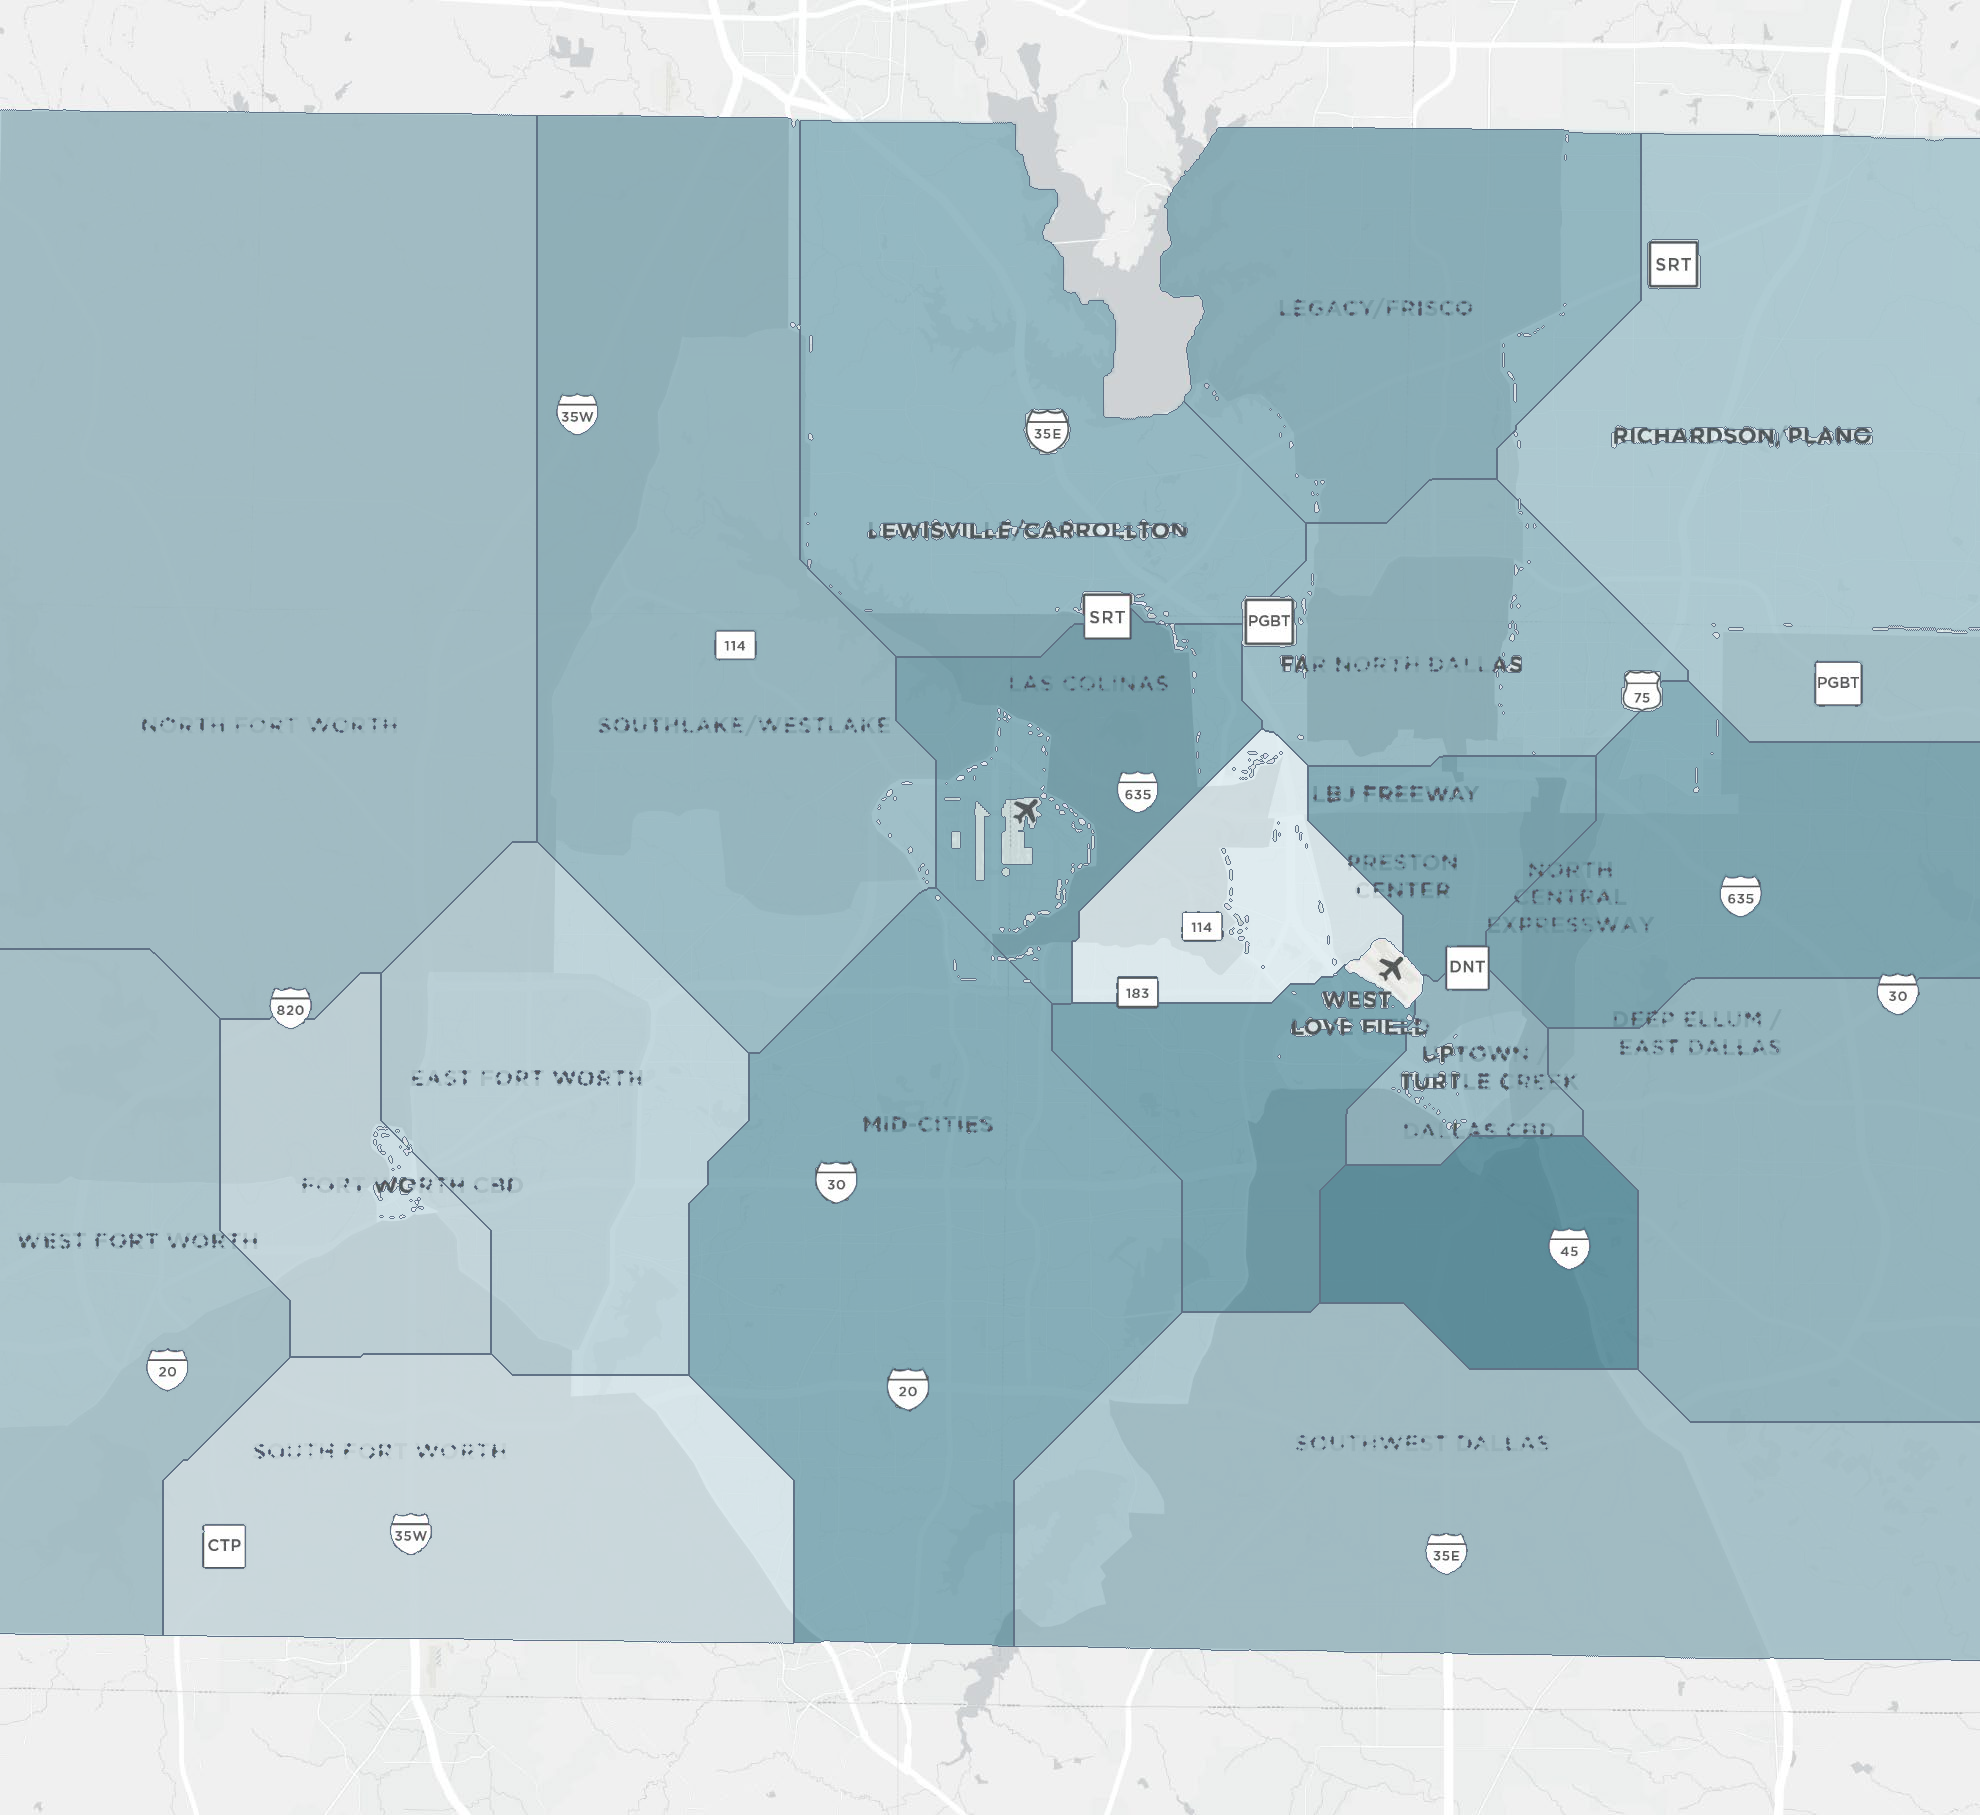
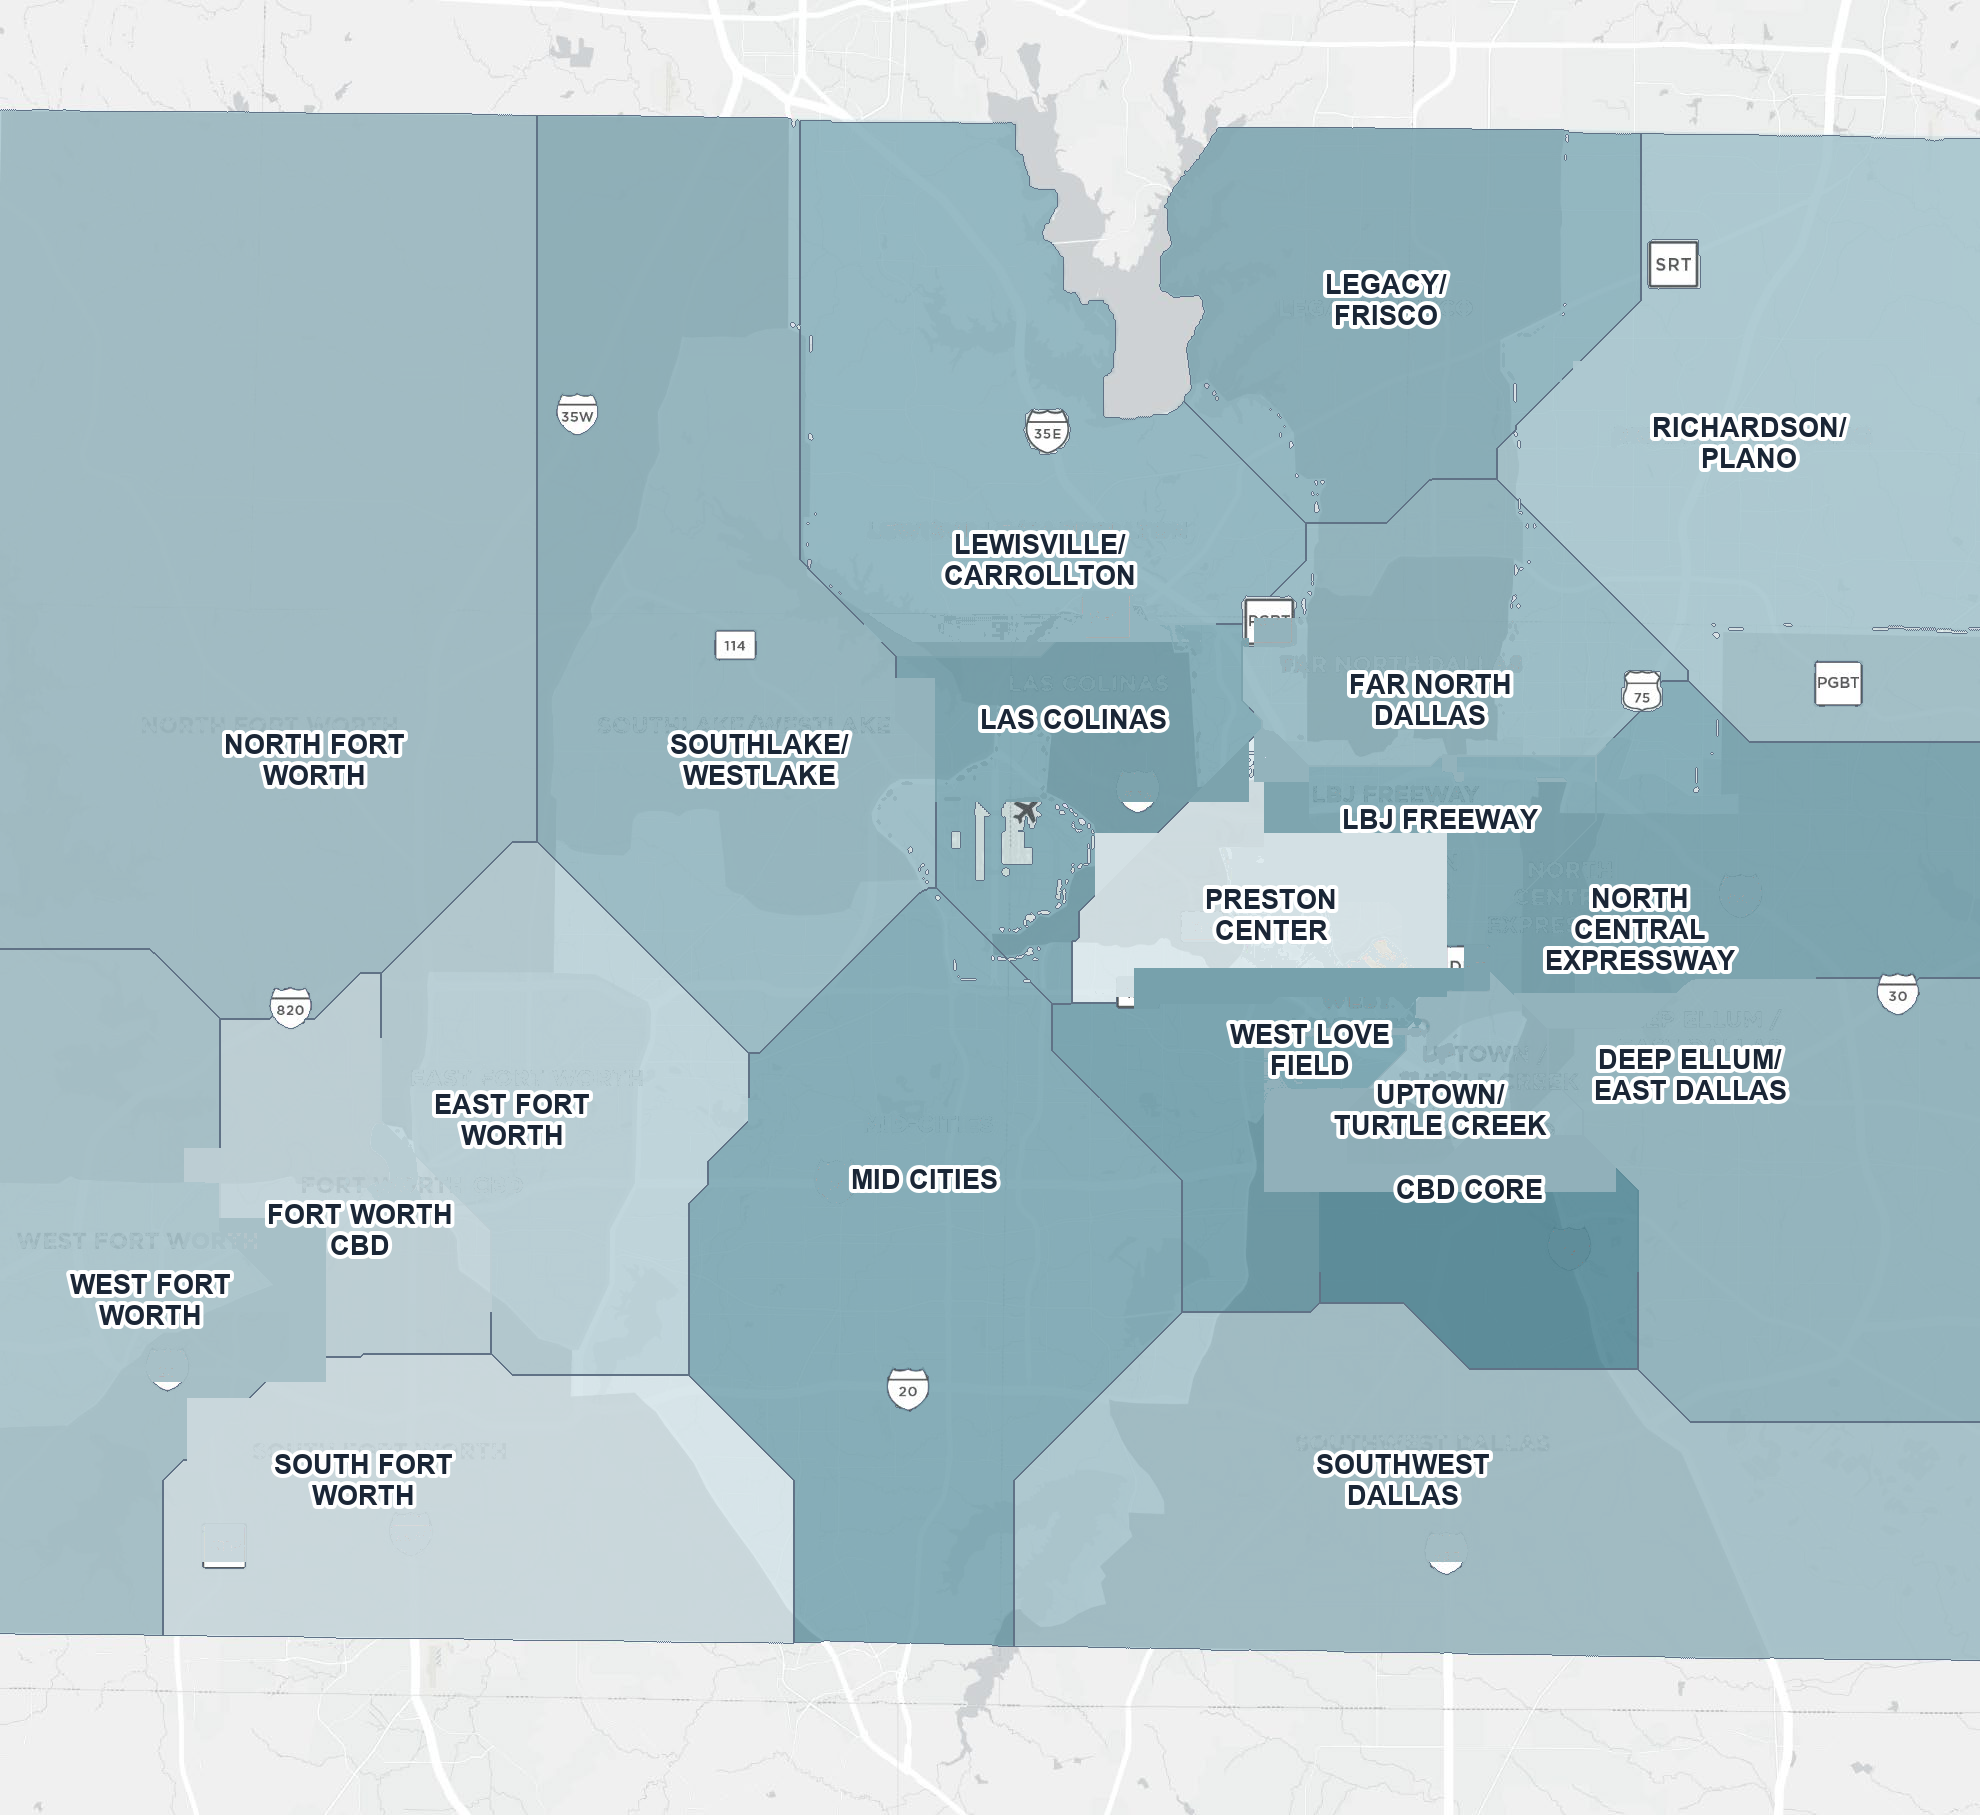
Submarket map: re-render labels crisply + drop the cursor-follow chip
- Labels: the baked-in JPEG labels blurred against the recolored regions. Now erase
  each one (relative to its region's own shade, so it works on pale + deep teal) and
  re-draw the name sharply with a clean white outline. Crisp on every region.
- Interaction: removed the chip that popped up near the cursor; hover still previews in
  the side panel, click a region to dive into its full figures.

diff --git a/frontend/report.html b/frontend/report.html
@@ -364,11 +364,6 @@
     border: 1px solid var(--line); border-radius: 12px; overflow: hidden; background: #fff;
     box-shadow: 0 2px 10px rgba(20,30,50,.05); cursor: pointer; }
   .sm-img { display: block; width: 100%; height: auto; }
-  /* small hint that follows the cursor so you can dive deeper right where you are */
-  .sm-cursor { position: absolute; display: none; z-index: 6; pointer-events: none;
-    background: var(--navy); color: #fff; font-size: 11px; font-weight: 600; letter-spacing: .2px;
-    padding: 5px 9px; border-radius: 7px; white-space: nowrap; box-shadow: 0 4px 14px rgba(0,0,0,.35); }
-  .sm-cursor b { color: var(--teal); }
   /* the 20% side panel */
   .sm-side { flex: 1 1 0; min-width: 0; border: 1px solid var(--line); border-top: 3px solid var(--teal);
     border-radius: 12px; background: #fff; padding: 14px 15px; display: flex; flex-direction: column; }
@@ -539,7 +534,6 @@
       <div class="sm-split">
         <div id="sm-map" class="sm-map">
           <img id="sm-img" class="sm-img" alt="Submarket vacancy map">
-          <div id="sm-cursor" class="sm-cursor"></div>
         </div>
         <aside id="sm-side" class="sm-side"></aside>
       </div>
@@ -1045,8 +1039,7 @@
     const map=document.getElementById("sm-map");
     if(map && !_smHandlersOn){ _smHandlersOn=true;
       map.addEventListener("mousemove", smHover);
-      map.addEventListener("click", smClick);
-      map.addEventListener("mouseleave", ()=>{ const c=document.getElementById("sm-cursor"); if(c) c.style.display="none"; }); }
+      map.addEventListener("click", smClick); }
     smSideDefault();
     document.getElementById("sm-foot").textContent =
       "The Cushman & Wakefield MarketBeat submarket map, shaded by Q1 2026 vacancy. Hover a submarket, then dive deeper for its full Market-Statistics figures.";
@@ -1069,16 +1062,9 @@
     return best?_smByName[best]:null;
   }
   function smHover(e){
-    const s=_smRegionAt(e), cur=document.getElementById("sm-cursor"), map=document.getElementById("sm-map");
-    if(!s){ if(cur) cur.style.display="none"; return; }
+    const s=_smRegionAt(e);
+    if(!s) return;
     if(!_smCur || _smCur.name!==s.name){ _smCur=s; smSideHover(s); }   // side panel follows the hover
-    if(cur && map){                                                     // hint chip follows the cursor
-      cur.innerHTML = `${s.name} · <b>click for full stats</b>`;
-      const mr=map.getBoundingClientRect();
-      let x=e.clientX-mr.left+16, y=e.clientY-mr.top+18;
-      if(x+cur.offsetWidth+10>mr.width) x=e.clientX-mr.left-cur.offsetWidth-14;
-      cur.style.left=Math.max(4,x)+"px"; cur.style.top=Math.max(4,y)+"px"; cur.style.display="block";
-    }
   }
   // click anywhere on a submarket -> dive deeper right there (no need to travel to a button)
   function smClick(e){ const s=_smRegionAt(e); if(s){ _smCur=s; smDeep(); } }

diff --git a/scripts/build_submarket_map.py b/scripts/build_submarket_map.py
@@ -138,6 +138,79 @@ def _teal_seed(arr, cx, cy):
     return None
 
 
+def _font(size):
+    import os
+    for p in ("/System/Library/Fonts/Supplemental/Arial Bold.ttf",
+              "/Library/Fonts/Arial Bold.ttf",
+              "/System/Library/Fonts/Helvetica.ttc",
+              "/usr/share/fonts/truetype/dejavu/DejaVuSans-Bold.ttf"):
+        if os.path.exists(p):
+            from PIL import ImageFont
+            return ImageFont.truetype(p, size)
+    from PIL import ImageFont
+    return ImageFont.load_default()
+
+
+def _wrap(name, width=12):
+    """Break a submarket name into tidy short lines (split on '/' and spaces)."""
+    words, out = name.replace("/", "/ ").split(), []
+    cur = ""
+    for w in words:
+        t = (cur + " " + w).strip()
+        if len(t) > width and cur:
+            out.append(cur); cur = w
+        else:
+            cur = t
+    if cur:
+        out.append(cur)
+    return [l.replace("/ ", "/").strip() for l in out]
+
+
+def _relabel(out_arr, lab, seeds, names, W, H):
+    """The baked-in JPEG labels go blurry once we recolor the regions underneath them.
+    So erase each original label (paint its dark-text + white-halo pixels with the
+    region's own colour) and re-draw the name SHARPLY at the same spot with a clean
+    white outline — readable on any teal shade."""
+    # representative colour of each region, used to paint out the old label
+    rc = {}
+    for i in range(len(names)):
+        m = lab == i
+        if m.any():
+            rc[i] = out_arr[m].mean(axis=0)
+    BW, BH = 176, 82   # erase window around each label centre (generous — labels sit interior)
+    for i, (sx, sy) in enumerate(seeds):
+        if i not in rc:
+            continue
+        x0, y0 = max(0, int(sx) - BW), max(0, int(sy) - BH)
+        x1, y1 = min(W, int(sx) + BW), min(H, int(sy) + BH)
+        sub = out_arr[y0:y1, x0:x1]
+        lum = sub.mean(axis=2)
+        rr, bb = sub[..., 0], sub[..., 2]
+        reg_lum = float(rc[i].mean())
+        # erase anything darker than THIS region (text + its grey anti-aliased edges) or
+        # lighter & low-saturation (the white halo, down to its faint outer fringe) — adapts
+        # to each region's shade so it works on both pale and deep teal.
+        old = (reg_lum - lum > 14) | ((lum - reg_lum > 11) & (np.abs(bb - rr) < 26))
+        sub[old] = rc[i]
+        out_arr[y0:y1, x0:x1] = sub
+
+    canvas = Image.fromarray(out_arr.clip(0, 255).astype(np.uint8))
+    d = ImageDraw.Draw(canvas)
+    font = _font(27)
+    for i, (sx, sy) in enumerate(seeds):
+        if i not in rc:
+            continue
+        lines = _wrap(names[i].upper())
+        lh = 31
+        ty = sy - (len(lines) * lh) / 2.0
+        for ln in lines:
+            w_ = d.textlength(ln, font=font)
+            d.text((sx - w_ / 2.0, ty), ln, font=font, fill=(26, 38, 54),
+                   stroke_width=4, stroke_fill=(255, 255, 255))
+            ty += lh
+    return canvas
+
+
 def build(sector: str) -> None:
     cfg = SEEDS[sector]
     if not cfg["regions"]:
@@ -205,7 +278,10 @@ def build(sector: str) -> None:
     diff[1:, :] |= lab[:-1, :] != lab[1:, :]
     out_arr[diff & (lab >= 0)] = (96, 114, 134)
 
-    img = Image.fromarray(out_arr.clip(0, 255).astype(np.uint8))
+    # --- Crisp labels: the baked-in JPEG labels blur against the recolored regions, so
+    #     ERASE each one (fill its dark-text + white-halo pixels with the region colour)
+    #     and re-DRAW it sharply at the same spot with a clean white outline. ---
+    img = _relabel(out_arr, lab, seeds, names, W, H)
     idmap = lab
     ok = len(names)
 
